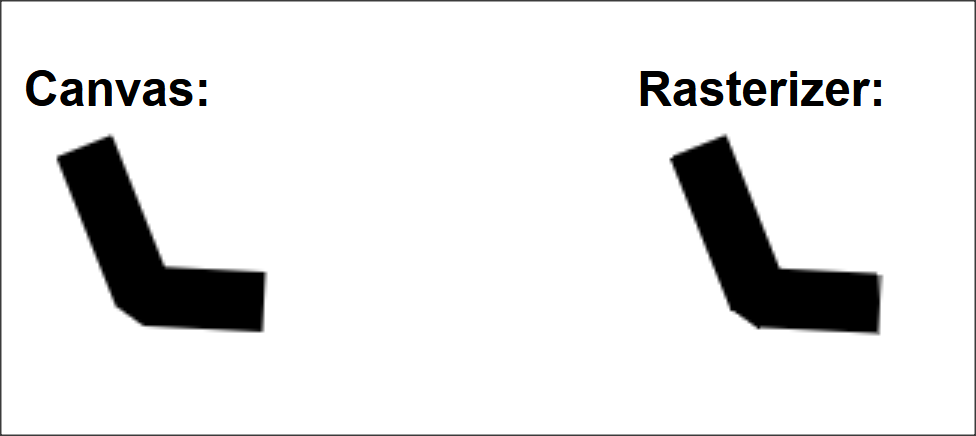
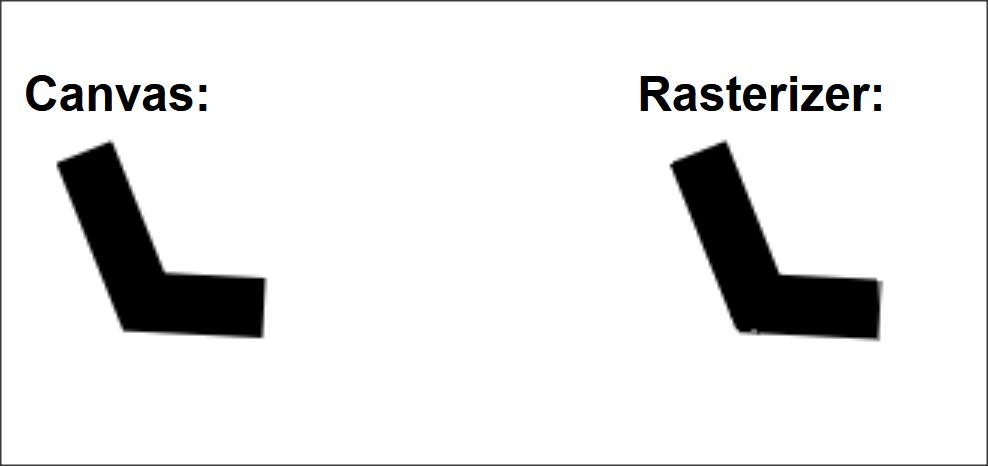
bevel/miter line join

diff --git a/test/lines.html b/test/lines.html
@@ -245,7 +245,7 @@ function drawGradientBezier(c, lw, ld, lc, grad1, grad2)
 
 //drawLine(20, 20, 80, 100, 1, [1,1]);
 //drawLine(20, 20, 80, 100, 4, [5,20], 'butt');
-drawLines(20, 10, 40, 60, 80, 62, 20, [], 'butt', 'bevel');
+drawLines(20, 10, 40, 60, 80, 62, 20, [], 'butt', 'miter');
 //drawGradientLine(20, 20, 120, 80, 20, [], 'square', 'miter', addColorStops(document.getElementById('test11').getContext('2d').createLinearGradient(20, 20, w - 20, h - 20)), addColorStops(Gradient.createLinearGradient(20, 20, w - 20, h - 20)));
 //drawGradientArc(50, 50, 20, 40, 30*Math.PI/180, 1, Math.PI/2, false, 2, [], 'butt', addColorStops(document.getElementById('test11').getContext('2d').createLinearGradient(20, 20, w - 20, h - 20)), addColorStops(Gradient.createLinearGradient(20, 20, w - 20, h - 20)));
 })();
